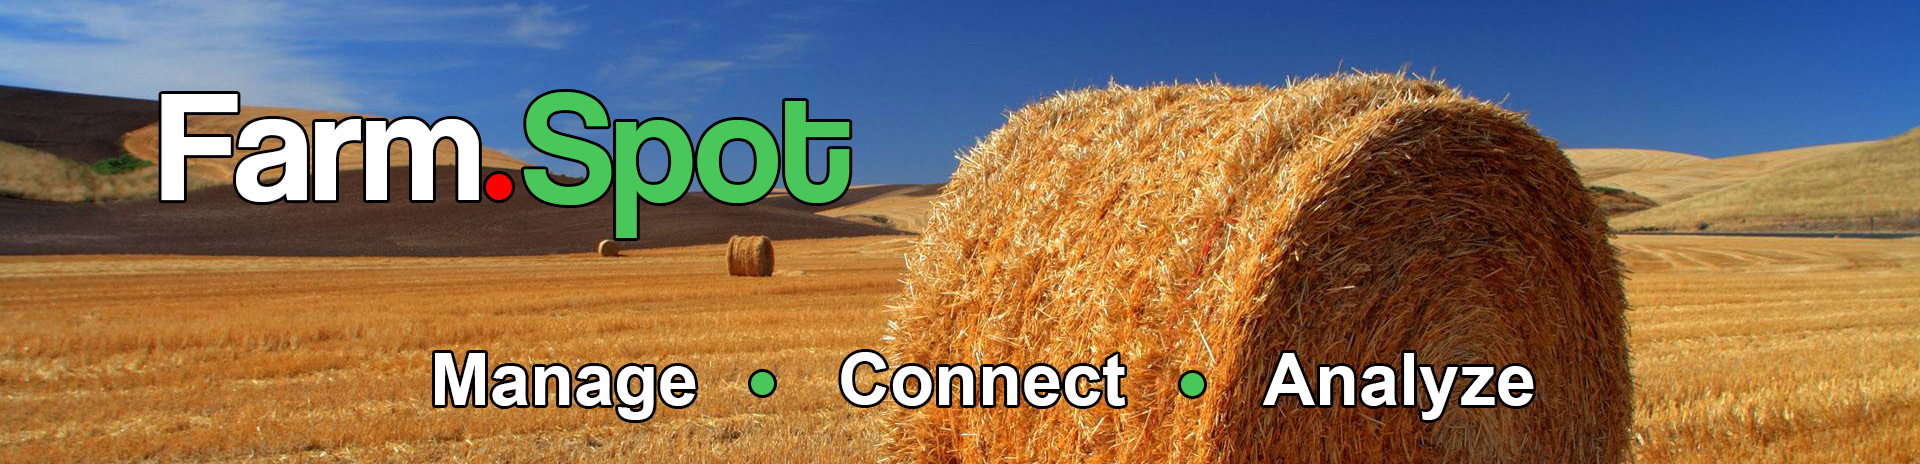
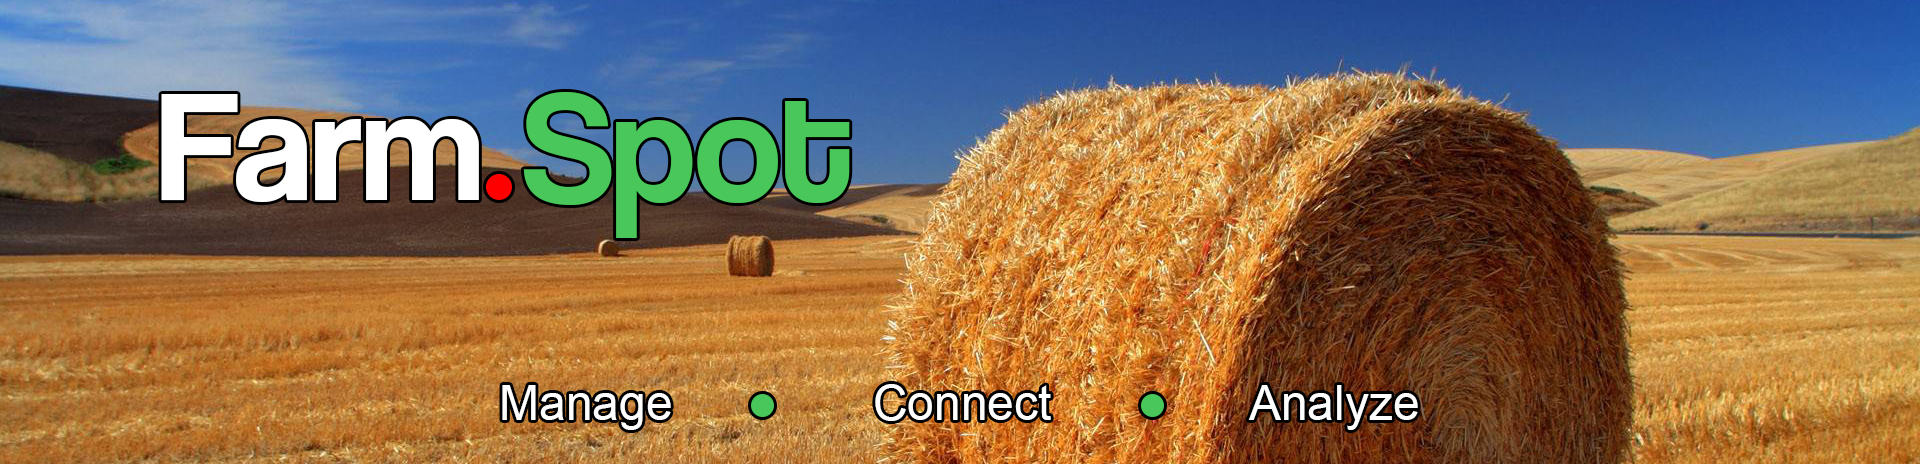
Home update Description, catchy words, all that good stuff

Changed region(s): [[0.4375, 0.7543, 0.8125, 0.9353], [0.2188, 0.7543, 0.4062, 0.9353]]

diff --git a/farm/templates/home.html b/farm/templates/home.html
@@ -11,6 +11,10 @@
 
 {% block content %}
 <img class="banner" src="/static/field.jpg"/>
+<br /><br/>
+<h2>Track profitability, monitor field rainfall, connect through the Marketplace, and so much more..</h2>
+
+<p>FarmSpot is a cloud service like no other. Using live data, geolocation services, and open federal data, the sky is the limit. You can use easily manage your farm operations on the field or at the office using our mobile-friendly implementations, or connect with farmers and brokers through the intuitive marketplace.</p>
 {% endblock %}
 
 

diff --git a/farm/static/styles.css b/farm/static/styles.css
@@ -7,6 +7,9 @@ body {
 h1{
 	font-weight: bold;
 }
+p {
+    font-size: 18px;
+}
 .starter-template {
   padding: 40px 15px;
   text-align: center;
